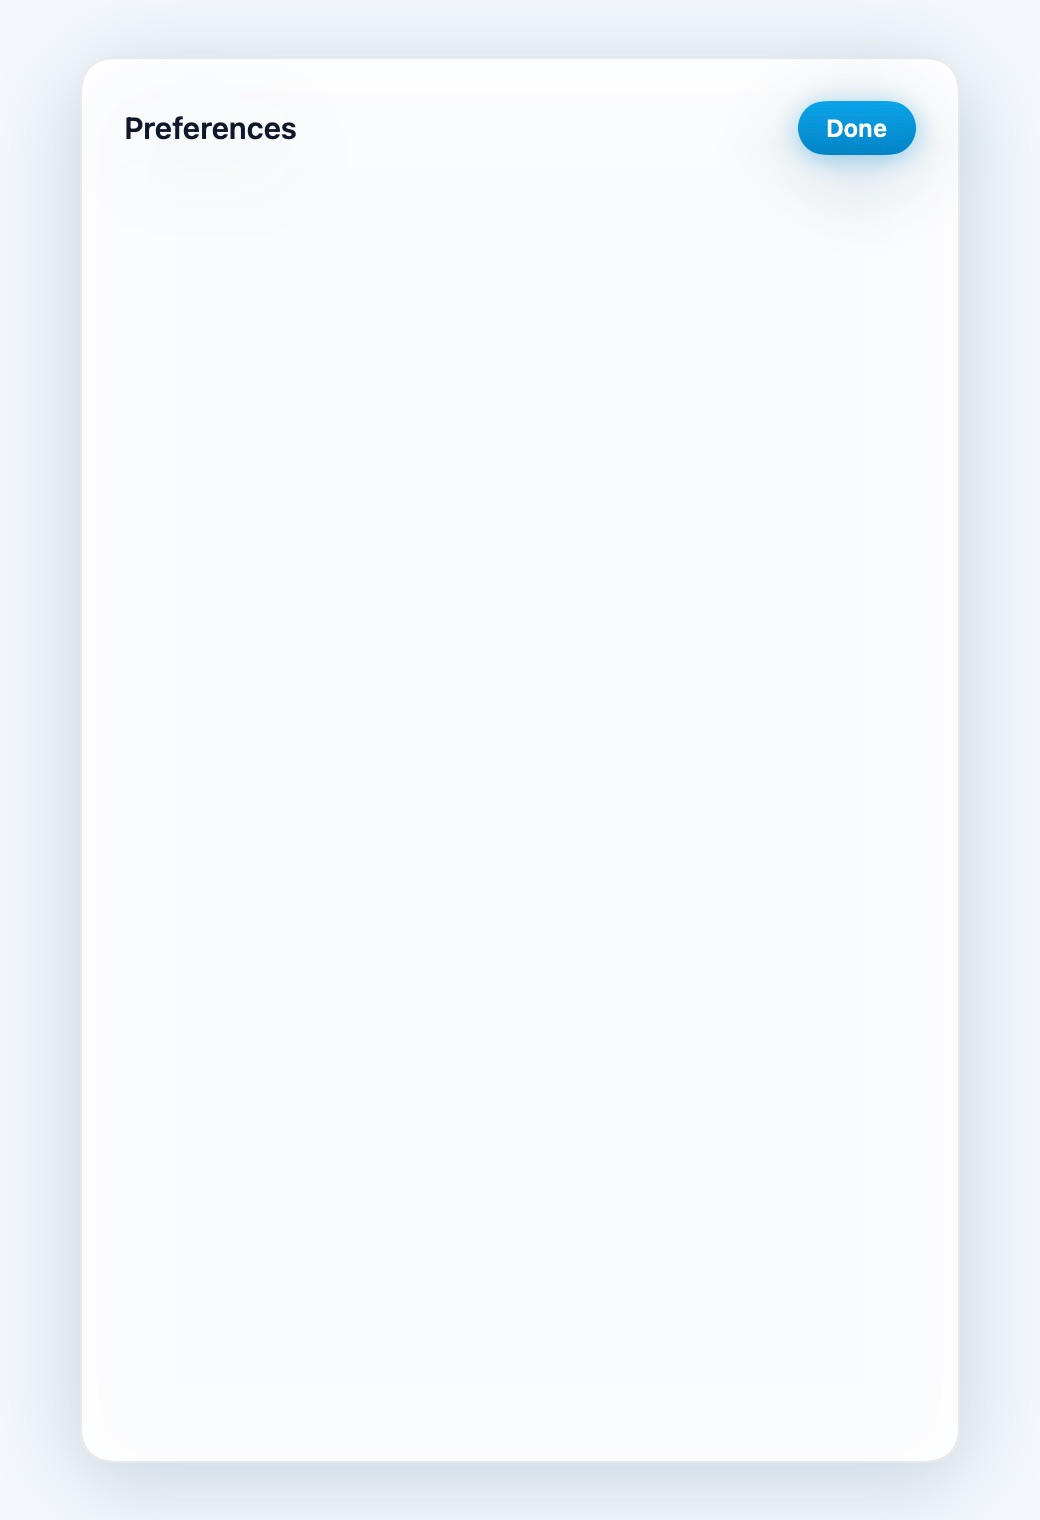
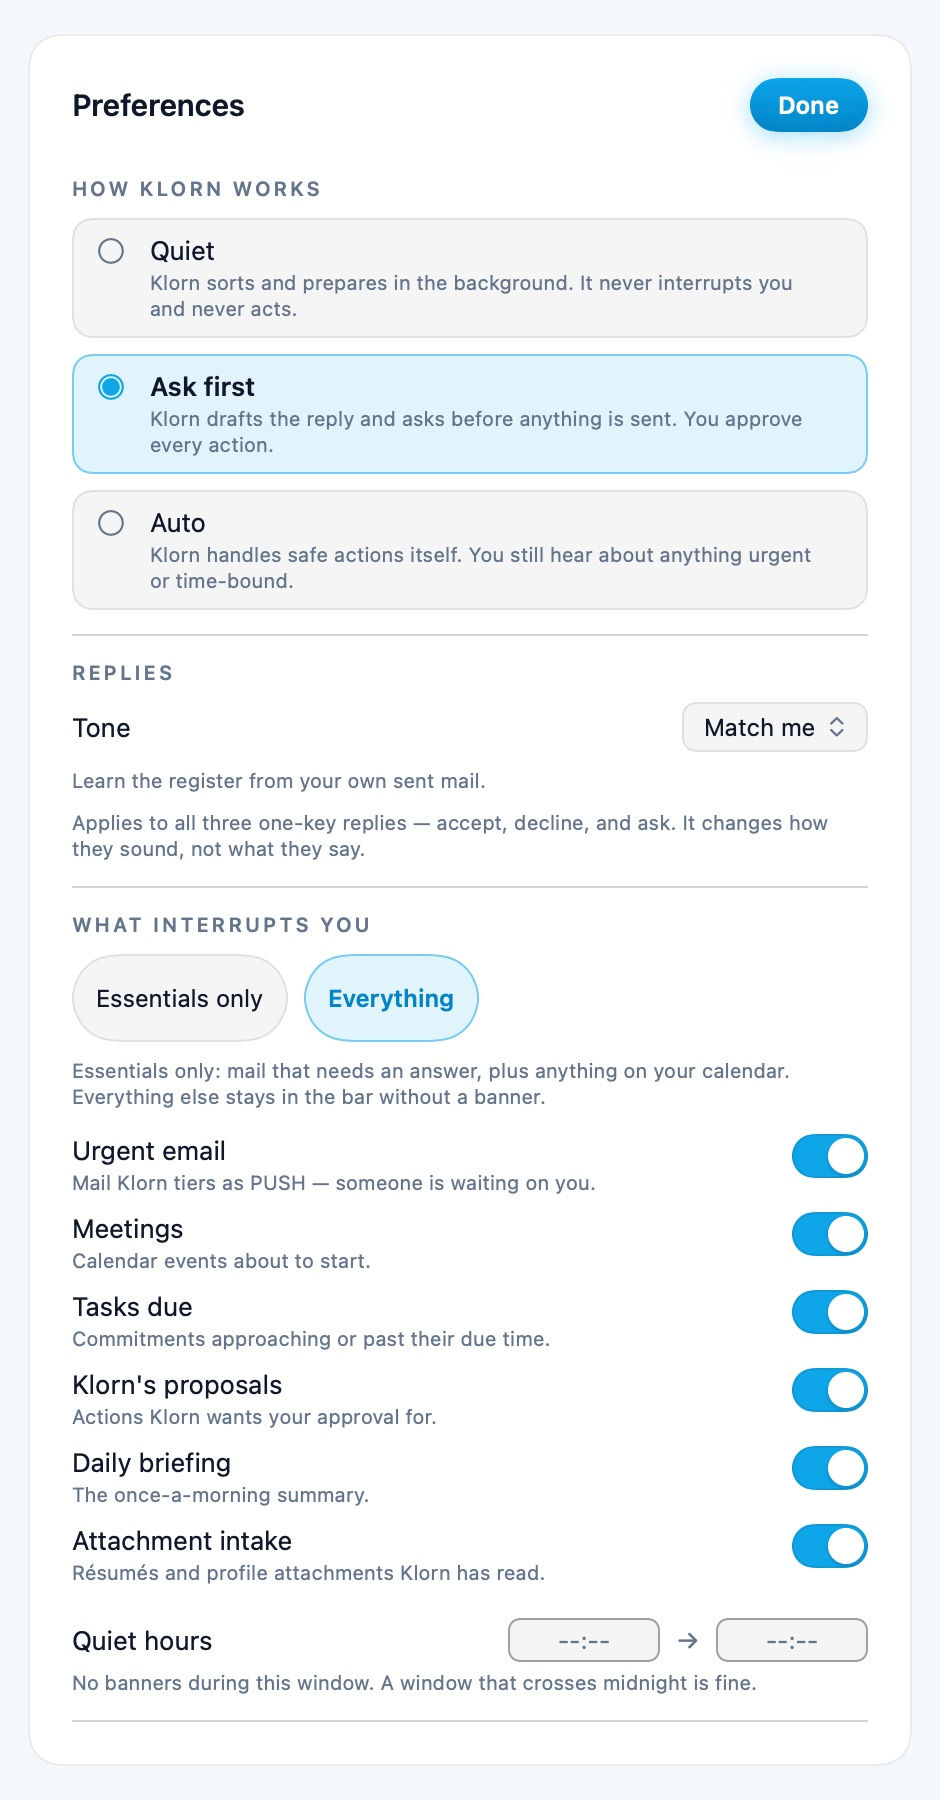
feat(website): state the argument, and show settings that aren't blank
Two things the screenshots made obvious.

The Preferences card was a title bar over an empty sheet. PreferencesView
puts its body in a ScrollView and ImageRenderer draws nothing inside one,
so the most "here is the product" card on the page was showing no product.
Render the behaviour settings directly instead — which is the part worth
showing anyway: agent mode, reply tone, what may interrupt you.

That exposed three more AppKit controls painting as placeholder glyphs
offscreen — the switch toggles, the tone Picker, and the quiet-hours
fields. All three now have plain stand-ins with the same box and state
while rendering, so the shot shows six real switches rather than six
yellow blocks.

Then the missing half of the page: an argument. "Four opinions most email
AI doesn't hold" says plainly why to use this instead of the assistant
already bundled with your mail — that judgement is the scarce thing and
not labour, that four fixed tiers beat unlimited labels and confidence
scores, that a number you can check beats a promise, and that you should
be able to leave. Each one carries a checkable proof chip, and the ones
that can be verified link into the repo and the eval set.

Language already follows the OS on a first visit, EN and KO only, with an
explicit pick remembered permanently.

diff --git a/apps/desktop-mac/Sources/KlornMac/AutomationPreferences.swift b/apps/desktop-mac/Sources/KlornMac/AutomationPreferences.swift
@@ -46,16 +46,20 @@ struct AutomationPreferences: View {
         HStack {
             Text(L("auto.tone")).font(.body).foregroundStyle(Theme.text)
             Spacer()
-            Picker(L("auto.tone"), selection: toneBinding) {
-                ForEach(ReplyTone.allCases, id: \.self) { tone in
-                    Text(tone.label).tag(tone)
+            if Theme.isRenderingOffscreen {
+                OffscreenPickerLabel(title: model.automation.replyTone.label)
+            } else {
+                Picker(L("auto.tone"), selection: toneBinding) {
+                    ForEach(ReplyTone.allCases, id: \.self) { tone in
+                        Text(tone.label).tag(tone)
+                    }
                 }
+                .labelsHidden()
+                .pickerStyle(.menu)
+                .frame(width: 160)
+                .disabled(model.automationSaving)
+                .accessibilityLabel(L("auto.tone.a11y"))
             }
-            .labelsHidden()
-            .pickerStyle(.menu)
-            .frame(width: 160)
-            .disabled(model.automationSaving)
-            .accessibilityLabel(L("auto.tone.a11y"))
         }
         Text(model.automation.replyTone.explanation)
             .font(.caption).foregroundStyle(Theme.textDim)
@@ -98,15 +102,23 @@ struct AutomationPreferences: View {
 
         VStack(alignment: .leading, spacing: Theme.s2) {
             ForEach(NotifyCategory.all) { category in
-                Toggle(isOn: categoryBinding(category)) {
+                HStack(alignment: .top, spacing: Theme.s3) {
                     VStack(alignment: .leading, spacing: 2) {
                         Text(category.title).foregroundStyle(Theme.text)
                         Text(category.detail).font(.caption).foregroundStyle(Theme.textDim)
                             .fixedSize(horizontal: false, vertical: true)
                     }
+                    Spacer(minLength: Theme.s2)
+                    if Theme.isRenderingOffscreen {
+                        OffscreenSwitch(on: category.read(model.automation))
+                    } else {
+                        Toggle("", isOn: categoryBinding(category))
+                            .labelsHidden()
+                            .toggleStyle(.switch).tint(Theme.accent)
+                            .disabled(model.automationSaving)
+                            .accessibilityLabel(category.title)
+                    }
                 }
-                .toggleStyle(.switch).tint(Theme.accent)
-                .disabled(model.automationSaving)
             }
         }
         .padding(.top, Theme.s1)
@@ -146,6 +158,36 @@ struct AutomationPreferences: View {
         .frame(maxWidth: .infinity, alignment: .leading)
         .padding(.vertical, Theme.s3)
         Divider().overlay(Theme.line)
+    }
+}
+
+/// Stand-ins for the AppKit-backed controls while the offscreen renderer runs.
+/// A `Toggle(.switch)` and a `.menu` Picker both paint as a "restricted"
+/// placeholder glyph under ImageRenderer, which would otherwise be what the
+/// landing page shows of Preferences.
+private struct OffscreenSwitch: View {
+    let on: Bool
+    var body: some View {
+        Capsule().fill(on ? Theme.accent : Theme.surfaceHover)
+            .frame(width: 38, height: 22)
+            .overlay(alignment: on ? .trailing : .leading) {
+                Circle().fill(.white).frame(width: 18, height: 18).padding(2)
+                    .shadow(color: .black.opacity(0.18), radius: 1, y: 1)
+            }
+            .overlay(Capsule().strokeBorder(Theme.line))
+    }
+}
+
+private struct OffscreenPickerLabel: View {
+    let title: String
+    var body: some View {
+        HStack(spacing: 6) {
+            Text(title).font(.callout).foregroundStyle(Theme.text)
+            Image(systemName: "chevron.up.chevron.down").font(.caption2).foregroundStyle(Theme.textDim)
+        }
+        .padding(.horizontal, 11).padding(.vertical, 5)
+        .background(Theme.surfaceRaised, in: RoundedRectangle(cornerRadius: 7))
+        .overlay(RoundedRectangle(cornerRadius: 7).strokeBorder(Theme.line))
     }
 }
 
@@ -263,14 +305,25 @@ private struct QuietHoursField: View {
         return pair.start == nil
     }
 
+    @ViewBuilder
     private func field(_ text: Binding<String>, label: String) -> some View {
-        TextField("--:--", text: text)
-            .textFieldStyle(.roundedBorder)
-            .frame(width: 76)
-            .multilineTextAlignment(.center)
-            .disabled(disabled)
-            .accessibilityLabel(label)
-            .onSubmit(commit)
+        if Theme.isRenderingOffscreen {
+            // TextField is AppKit-backed and paints as a placeholder glyph
+            // offscreen; this keeps the same box for the design renderer.
+            Text(text.wrappedValue.isEmpty ? "--:--" : text.wrappedValue)
+                .font(.callout).foregroundStyle(Theme.textDim)
+                .frame(width: 76, height: 22)
+                .background(Theme.surfaceRaised, in: RoundedRectangle(cornerRadius: 6))
+                .overlay(RoundedRectangle(cornerRadius: 6).strokeBorder(Theme.field))
+        } else {
+            TextField("--:--", text: text)
+                .textFieldStyle(.roundedBorder)
+                .frame(width: 76)
+                .multilineTextAlignment(.center)
+                .disabled(disabled)
+                .accessibilityLabel(label)
+                .onSubmit(commit)
+        }
     }
 
     private func syncFromModel() {

diff --git a/website/_new.html b/website/_new.html
@@ -226,6 +226,22 @@ h1 .ser{font-family:'PP Editorial New','Iowan Old Style',Georgia,serif;font-styl
 .proof{max-width:1180px;margin:34px auto 0;padding:0 24px;font-size:13.5px;color:var(--ink-3);max-width:720px}
 .proof a{color:var(--sky-600);font-weight:600}
 
+
+/* ── Opinionated stance rows ──────────────────────── */
+.stance{max-width:1180px;margin:0 auto;padding:0 24px;display:grid;gap:0}
+.srow{display:grid;grid-template-columns:34px 1fr 1fr;gap:32px;align-items:start;
+  padding:30px 0;border-top:1px solid var(--line)}
+.srow:last-child{border-bottom:1px solid var(--line)}
+.srow .n{font-size:11px;font-weight:700;letter-spacing:.14em;color:var(--sky-600);padding-top:5px}
+.srow h3{margin:0;font-size:clamp(19px,2.1vw,25px);line-height:1.2;letter-spacing:-.025em;font-weight:650}
+.srow .body{display:grid;gap:12px}
+.srow p{margin:0;font-size:14.5px;color:var(--ink-2);line-height:1.6}
+.srow .vs{display:inline-flex;align-items:center;gap:9px;font-size:12.5px;color:var(--ink-3);
+  padding:7px 13px;border-radius:9999px;background:rgba(10,14,20,.04);border:1px solid var(--line);
+  align-self:flex-start}
+.srow .vs b{color:var(--ink);font-weight:650}
+@media(max-width:860px){.srow{grid-template-columns:1fr;gap:14px;padding:24px 0}.srow .n{padding-top:0}}
+
 /* Scroll reveal */
 /* Reveal is opt-IN: content is visible by default and JS arms the "from"
    state only once it is running. The usual way round leaves anything waiting
@@ -371,6 +387,57 @@ h1 .ser{font-family:'PP Editorial New','Iowan Old Style',Georgia,serif;font-styl
         <span class="pip"><i></i>You stay in control</span>
         <span class="pip"><i></i>Evidence on every card</span>
         <span class="pip"><i></i>Nothing sent without you</span>
+      </div>
+    </div>
+  </div>
+</section>
+
+
+<!-- ══ THE STANCE ═══════════════════════════════════ -->
+<section class="sec" id="stance">
+  <div class="sec-head">
+    <div style="flex:1 1 420px">
+      <span class="tag rv">Where we disagree</span>
+      <h2 class="rv">Four opinions most<br>email AI doesn't hold.</h2>
+    </div>
+    <p class="rv">These are choices, not features. Each one costs Klorn something, and each one is the
+      reason to use it instead of the assistant already bundled with your mail.</p>
+  </div>
+  <div class="stance">
+    <div class="srow rv"><span class="n">01</span>
+      <h3>An agent that acts for you is the wrong product.</h3>
+      <div class="body">
+        <p>Everyone is shipping autonomy. We think the scarce thing is judgement, not labour — you can
+          write the reply in ninety seconds, but deciding which of forty messages deserves it is the
+          part that eats the morning. Klorn does the deciding and leaves the acting to you.</p>
+        <span class="vs">Every send, delete and forward waits for you · <b>0 unapproved actions</b></span>
+      </div>
+    </div>
+    <div class="srow rv"><span class="n">02</span>
+      <h3>Four tiers. Not folders, not labels, not scores.</h3>
+      <div class="body">
+        <p>A confidence percentage tells you nothing you can act on, and an unlimited label system
+          becomes another inbox to manage. PUSH, QUEUE, SILENT, AUTO — a message either interrupts you,
+          waits, is filed, or was handled. There is no fifth tier, and there never will be.</p>
+        <span class="vs">Every message shows <b>why</b> it landed where it did</span>
+      </div>
+    </div>
+    <div class="srow rv"><span class="n">03</span>
+      <h3>A number you can check beats a promise.</h3>
+      <div class="body">
+        <p>"AI-powered" is not a claim. Klorn is scored against a hand-labeled set of real emails before
+          every release, cold-start and warm-start reported separately, and the set itself is in the
+          repository so you can disagree with our labels.</p>
+        <span class="vs"><b>94.3%</b> warm · 81.1% cold · <a href="https://github.com/k08200/klorn/tree/main/packages/api/eval" rel="noreferrer noopener" style="color:var(--sky-600);font-weight:650">see the set →</a></span>
+      </div>
+    </div>
+    <div class="srow rv"><span class="n">04</span>
+      <h3>You should be able to leave.</h3>
+      <div class="body">
+        <p>An email agent reads everything you receive. That is too much power to hand to a black box
+          you cannot inspect or exit. Klorn is AGPLv3, self-hosts against your own database and model
+          keys, and caps its own daily spend so a runaway loop can't bill you.</p>
+        <span class="vs">AGPLv3 · <a href="https://github.com/k08200/klorn" rel="noreferrer noopener" style="color:var(--sky-600);font-weight:650">read the source →</a></span>
       </div>
     </div>
   </div>

diff --git a/apps/desktop-mac/Sources/KlornMac/PreviewRender.swift b/apps/desktop-mac/Sources/KlornMac/PreviewRender.swift
@@ -115,8 +115,23 @@ enum PreviewRender {
                 Spacer(minLength: 0)
             }
         }
-        shot("preferences", size: CGSize(width: 520, height: 760)) {
-            PreferencesView(actions: actions)
+        // PreferencesView puts its body in a ScrollView, which ImageRenderer
+        // draws as nothing — the shot was a title bar over a blank sheet. Render
+        // the behaviour settings themselves, which is the part worth showing.
+        shot("preferences", size: CGSize(width: 470, height: 900)) {
+            VStack(alignment: .leading, spacing: 0) {
+                HStack {
+                    Text(L("prefs.title")).font(.title3.weight(.semibold)).foregroundStyle(Theme.text)
+                    Spacer()
+                    Button(L("prefs.done")) {}.buttonStyle(PrimaryButtonStyle())
+                }
+                .padding(.bottom, 10)
+                AutomationPreferences()
+            }
+            .padding(22)
+            .background(Theme.panel, in: RoundedRectangle(cornerRadius: 16))
+            .overlay(RoundedRectangle(cornerRadius: 16).strokeBorder(Theme.line))
+            .padding(14)
         }
         shot("tier-guide", size: CGSize(width: 540, height: 520)) {
             TierGuide {}
